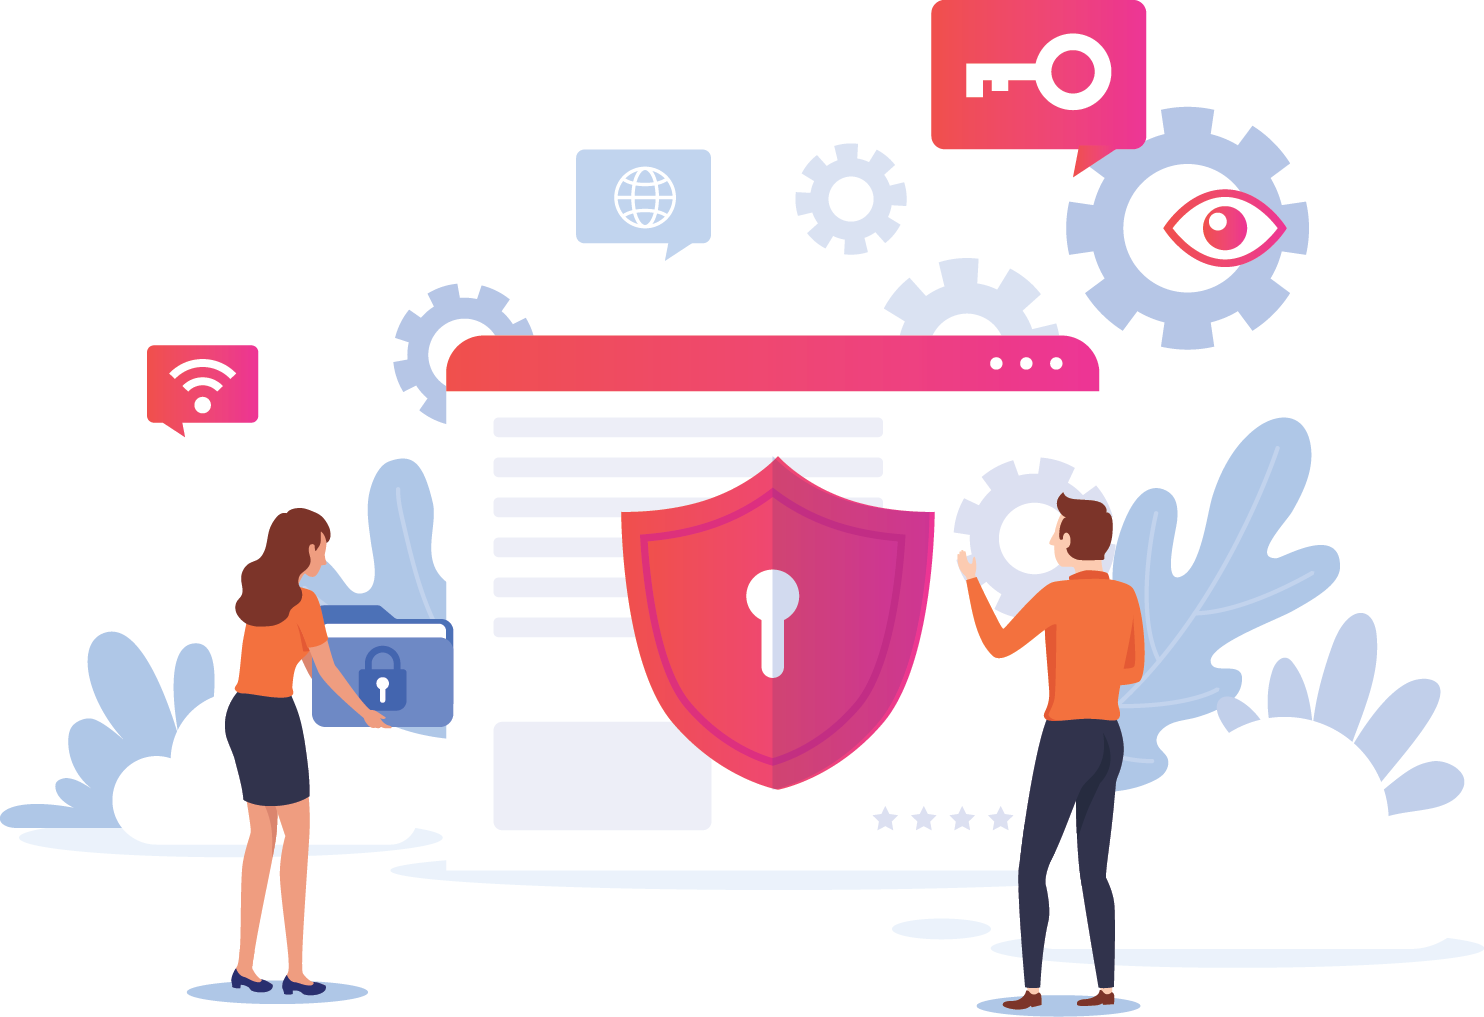
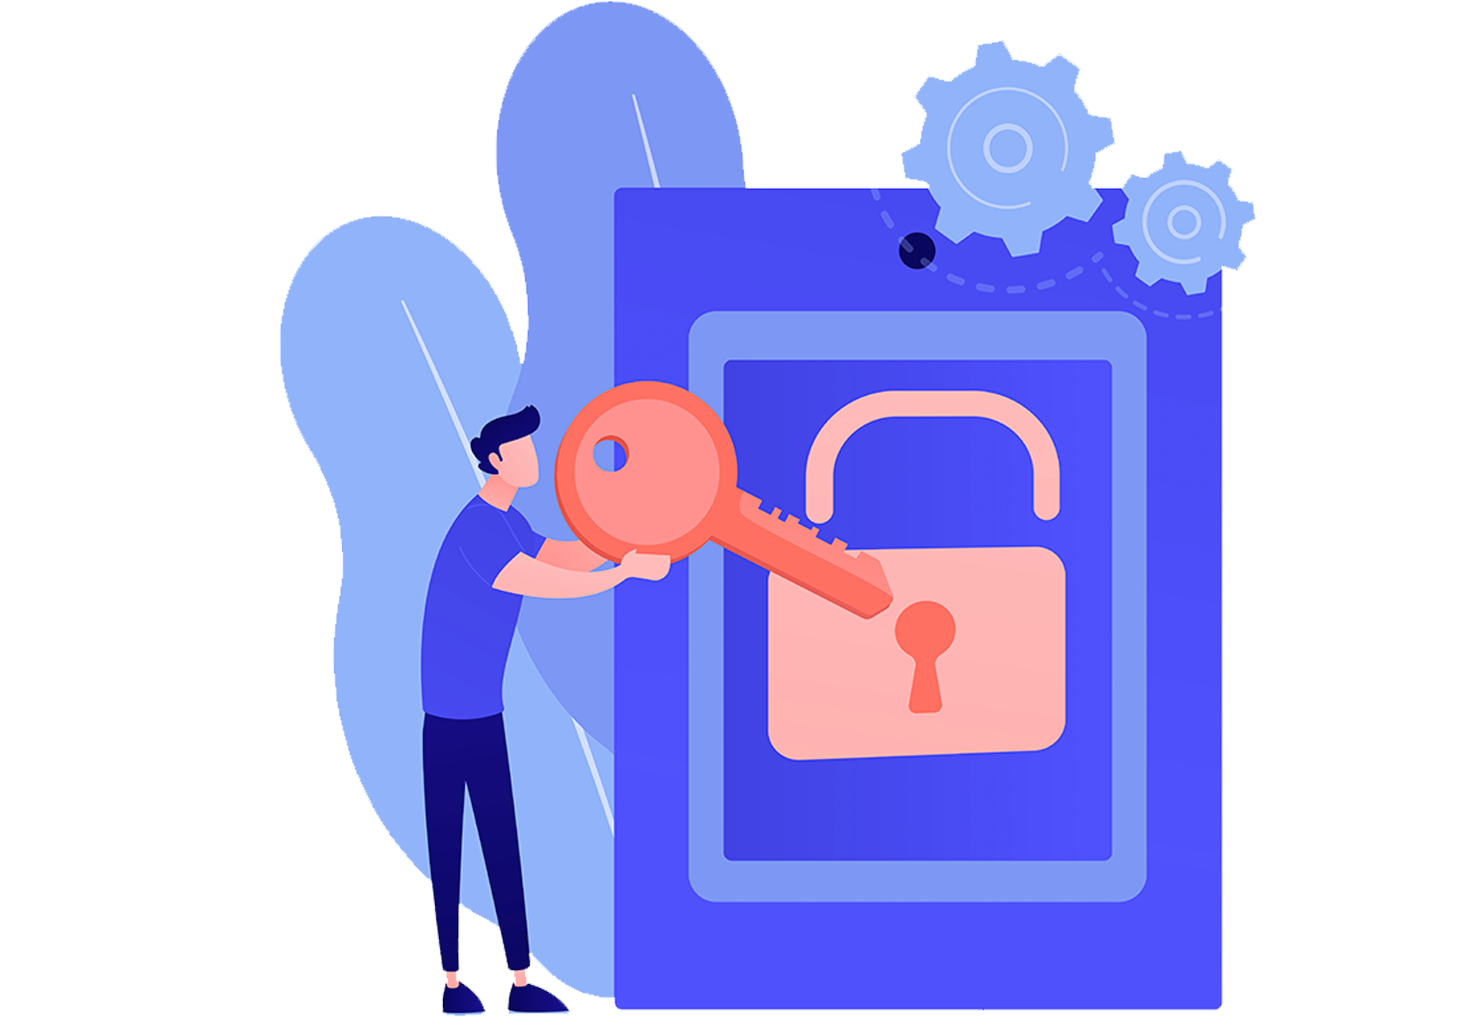
Add ConsumeForcast Entity and Configuration

diff --git a/src/Datiss.Budget.DataLayer/Configurations/ConsumeForcastConfiguration.cs b/src/Datiss.Budget.DataLayer/Configurations/ConsumeForcastConfiguration.cs
@@ -1,0 +1,50 @@
+using Datiss.Budget.Entities;
+using Datiss.Budget.Enum;
+using Datiss.Budget.Entities.DWH;
+using Microsoft.EntityFrameworkCore;
+using Microsoft.EntityFrameworkCore.Metadata.Builders;
+
+namespace Datiss.Budget.DataLayer.Mappings
+{
+    public class ConsumeForcastConfiguration : IEntityTypeConfiguration<ConsumeForcast>
+    {
+        public void Configure(EntityTypeBuilder<ConsumeForcast> builder)
+        {
+            builder.ToTable("ConsumeForcast").HasKey(x => x.Id);
+
+            builder.Property(x => x.Id)
+                    .HasColumnName("ConsumeForcastId");
+
+            builder.Property(x => x.CountUser).HasColumnType("decimal(18,6)");
+
+            builder.Property(x => x.UnitUser).HasColumnType("decimal(18,6)");
+
+            builder.Property(x => x.ConsumeUser).HasColumnType("decimal(18,6)");
+
+            builder.Property(x => x.AvgConsumeUser).HasColumnType("decimal(18,6)");
+
+            builder.Property(x => x.ConsumeUserForcast).HasColumnType("decimal(18,6)");
+
+            builder.HasOne(x => x.FinanceYear)
+                    .WithMany(x => x.ConsumeForcast)
+                    .HasForeignKey(x => x.YearId)
+                    .OnDelete(DeleteBehavior.Restrict);
+
+            builder.HasOne(x => x.Organization)
+                    .WithMany(x => x.ConsumeForcast)
+                    .HasForeignKey(x => x.OrganizationId)
+                    .OnDelete(DeleteBehavior.Restrict);
+
+            builder.HasOne(x => x.UserType)
+                    .WithMany(x => x.ConsumeForcast)
+                    .HasForeignKey(x => x.UserTypeId)
+                    .OnDelete(DeleteBehavior.Restrict);
+
+            builder.HasOne(x => x.UsageLayer)
+                    .WithMany(x => x.ConsumeForcast)
+                    .HasForeignKey(x => x.UsageLayerId)
+                    .OnDelete(DeleteBehavior.Restrict);
+
+        }
+    }
+}

diff --git a/src/Datiss.Budget.Entities/DWH/ConsumeForcast.cs b/src/Datiss.Budget.Entities/DWH/ConsumeForcast.cs
@@ -1,0 +1,43 @@
+using Datiss.Budget.Entities.AuditableEntity;
+
+namespace Datiss.Budget.Entities.DWH
+{
+    public class ConsumeForcast : IAuditableEntity
+    {
+        public  ConsumeForcast() {}
+
+        #region Properties
+        public int Id { get; set; }
+
+        public int YearId { get; set; }
+
+        public int OrganizationId { get; set; }
+        
+        public int UserTypeId { get; set; }
+
+        public int UsageLayerId { get; set; }
+
+        public decimal CountUser { get; set; }
+
+        public decimal UnitUser { get; set; }
+
+        public decimal ConsumeUser { get; set; }
+
+        public decimal AvgConsumeUser { get; set; }
+
+        public decimal ConsumeUserForcast { get; set; }
+
+        #endregion
+
+        #region Navigation
+        public FinanceYear FinanceYear { get; set; }
+
+        public Organization Organization { get; set; }
+
+        public Constant UserType { get; set; }
+
+        public Constant UsageLayer { get; set; }
+        #endregion
+
+    }
+}

diff --git a/src/Datiss.Budget.Entities/Constant.cs b/src/Datiss.Budget.Entities/Constant.cs
@@ -77,6 +77,11 @@ namespace Datiss.Budget.Entities
 
         public ICollection<IncomeCurrentWsNH> IncomeCurrentWsNH { get; set; }
 
+        public ICollection<ConsumeForcast> ConsumeForcast { get; set; }
+
+        public ICollection<ConsumeForcast> UsageLayerConsumeForcast { get; set; }
+
+
         #endregion
     }
 }

diff --git a/src/Datiss.Budget.Entities/FinanceYear.cs b/src/Datiss.Budget.Entities/FinanceYear.cs
@@ -71,6 +71,8 @@ namespace Datiss.Budget.Entities
 
         public ICollection<IncomeCurrentWsNH> IncomeCurrentWsNH { get; set; }
 
+        public ICollection<ConsumeForcast> ConsumeForcast { get; set; }
+
 
         #endregion
     }

diff --git a/src/Datiss.Budget.Entities/Organization.cs b/src/Datiss.Budget.Entities/Organization.cs
@@ -78,6 +78,7 @@ namespace Datiss.Budget.Entities
 
         public ICollection<IncomeCurrentWsNH> IncomeCurrentWsNH { get; set; }
 
+        public ICollection<ConsumeForcast> ConsumeForcast { get; set; }
 
         #endregion
     }
